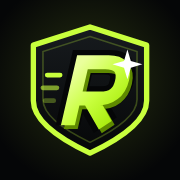
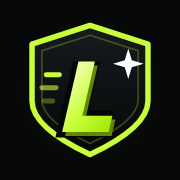
Learners Quest: 앱 이름을 Runner Quest에서 Learners Quest로 변경
화면 문구, PWA manifest, title, 공유 카드, 푸시 기본 제목, 패스키 rp 이름,
로고 R 마크를 L 마크로 바꾸고 PNG 아이콘을 다시 생성. SW VERSION rq-v18.
내부 식별자(rq- 접두어, quest_ 테이블, API 경로)는 그대로 둠.

Claude-Session: https://claude.ai/code/session_012ZS5j5fBSNmbDEpnkTcygR

Changed region(s): [[0.1389, 0.1111, 0.8611, 0.8889]]

diff --git a/quest/index.html b/quest/index.html
@@ -4,14 +4,14 @@
 <meta charset="utf-8">
 <meta http-equiv="Content-Security-Policy" content="object-src 'none'; base-uri 'self'; upgrade-insecure-requests">
 <meta name="viewport" content="width=device-width, initial-scale=1, maximum-scale=1, user-scalable=no, viewport-fit=cover">
-<title>Runner Quest | 데이터 러너즈</title>
+<title>Learners Quest | 데이터 러너즈</title>
 <meta name="robots" content="noindex, nofollow">
 <meta name="description" content="매일의 루틴을 퀘스트로 체크하고 경험치와 레벨로 나를 육성하는 자기육성 대시보드">
 <meta name="theme-color" content="#050607">
 <meta name="apple-mobile-web-app-capable" content="yes">
 <meta name="mobile-web-app-capable" content="yes">
 <meta name="apple-mobile-web-app-status-bar-style" content="black-translucent">
-<meta name="apple-mobile-web-app-title" content="Runner Quest">
+<meta name="apple-mobile-web-app-title" content="Learners Quest">
 <link rel="manifest" href="/quest/manifest.webmanifest">
 <link rel="icon" type="image/svg+xml" href="/quest/logo.svg">
 <link rel="icon" type="image/png" href="/quest/icon-192.png">
@@ -816,9 +816,9 @@ button.job-opt:not(:disabled):hover { border-color:color-mix(in srgb, var(--jc) 
 
 <header class="topbar">
   <div class="shell topbar-in">
-    <a class="brand" href="/quest/" aria-label="Runner Quest">
+    <a class="brand" href="/quest/" aria-label="Learners Quest">
       <img class="brand-mark" src="/quest/logo.svg" alt="" width="34" height="34">
-      <span>Runner Quest<small>데이터 러너즈 · 자기육성</small></span>
+      <span>Learners Quest<small>데이터 러너즈 · 자기육성</small></span>
     </a>
     <nav class="top-tabs" id="topTabs" role="tablist" hidden>
       <button role="tab" data-tab="today" aria-selected="true">오늘의 퀘스트</button>
@@ -843,7 +843,7 @@ button.job-opt:not(:disabled):hover { border-color:color-mix(in srgb, var(--jc) 
 <!-- 로그인 -->
 <section class="login-wrap" id="viewLogin" hidden>
   <form class="login-card" id="loginForm" novalidate>
-    <img class="login-logo" src="/quest/logo.svg" alt="Runner Quest 로고" width="88" height="88">
+    <img class="login-logo" src="/quest/logo.svg" alt="Learners Quest 로고" width="88" height="88">
     <span class="eyebrow">Player Login</span>
     <h1>오늘도 레벨업하러 오셨군요</h1>
     <p>데이터 러너즈 계정으로 로그인하세요. 퀘스트 기록은 계정 소유자만 볼 수 있도록 DB에 저장됩니다.</p>
@@ -866,7 +866,7 @@ button.job-opt:not(:disabled):hover { border-color:color-mix(in srgb, var(--jc) 
 <!-- 친구 초대 가입 -->
 <section class="login-wrap" id="viewSignup" hidden>
   <form class="login-card" id="signupForm" novalidate>
-    <img class="login-logo" src="/quest/logo.svg" alt="Runner Quest 로고" width="88" height="88">
+    <img class="login-logo" src="/quest/logo.svg" alt="Learners Quest 로고" width="88" height="88">
     <span class="eyebrow">New Player</span>
     <h1>같이 레벨업해요</h1>
     <div class="signup-hero" id="signupHero"><span class="e">🤝</span><span id="signupHeroText">친구에게 받은 초대 코드로 가입하면 바로 친구 리그에 들어갑니다.</span></div>
@@ -1308,7 +1308,7 @@ button.job-opt:not(:disabled):hover { border-color:color-mix(in srgb, var(--jc) 
 <!-- 앱 설치 안내 시트 -->
 <div class="sheet" id="installSheet" role="dialog" aria-modal="true" aria-labelledby="installSheetTitle" hidden>
   <div class="grab"></div>
-  <h3 id="installSheetTitle">Runner Quest 앱 설치</h3>
+  <h3 id="installSheetTitle">Learners Quest 앱 설치</h3>
   <div class="install-hero"><img src="/quest/icon-192.png" alt=""><p>홈 화면에 아이콘이 생기고, 주소창 없이 전체 화면 앱으로 열립니다. 로그인은 그대로 유지됩니다.</p></div>
   <ol class="install-steps" id="installSteps"></ol>
   <p class="install-note" id="installNote"></p>
@@ -2370,7 +2370,7 @@ button.job-opt:not(:disabled):hover { border-color:color-mix(in srgb, var(--jc) 
       c.fillStyle = g; c.fillRect(0, 0, W, H);
       c.strokeStyle = 'rgba(255,255,255,.08)'; c.lineWidth = 2; c.strokeRect(40, 40, W - 80, H - 80);
       function txt(t, x, y, font, color, align) { c.font = font; c.fillStyle = color; c.textAlign = align || 'left'; c.fillText(t, x, y); }
-      txt('RUNNER QUEST', 90, 128, '700 30px ' + EN, '#c8ff3d');
+      txt('LEARNERS QUEST', 90, 128, '700 30px ' + EN, '#c8ff3d');
       txt(seasonLabel(month) + (s.live ? ' 시즌 중간 결산' : ' 시즌 결산'), W - 90, 128, '600 30px ' + KO, '#a1aaa5', 'right');
       txt(displayName() + (me().cls ? '  ·  ' + me().cls : ''), W / 2, 230, '700 42px ' + KO, '#f5f7f2', 'center');
       txt(rk.r.en.toUpperCase(), W / 2, 410, '800 150px ' + EN, rk.r.color, 'center');
@@ -2411,12 +2411,12 @@ button.job-opt:not(:disabled):hover { border-color:color-mix(in srgb, var(--jc) 
     seasonImage(all, month).then(function (blob) {
       if (btn) btn.disabled = false;
       if (!blob) { toast('이미지를 만들지 못했어요.', true); return; }
-      var name = 'runner-quest-' + month + '.png', file = null;
+      var name = 'learners-quest-' + month + '.png', file = null;
       try { file = new File([blob], name, { type: 'image/png' }); } catch (e) {}
       var s = seasonSummary(all, month);
-      var text = seasonLabel(month) + ' 시즌 ' + (s.live ? '진행 중' : '결산') + ': ' + s.rank.r.ko + ' 랭크, ' + fmtNum(s.xp) + 'XP, 퍼펙트 데이 ' + s.perfect + '일 #RunnerQuest';
+      var text = seasonLabel(month) + ' 시즌 ' + (s.live ? '진행 중' : '결산') + ': ' + s.rank.r.ko + ' 랭크, ' + fmtNum(s.xp) + 'XP, 퍼펙트 데이 ' + s.perfect + '일 #LearnersQuest';
       if (file && navigator.canShare && navigator.canShare({ files: [file] })) {
-        navigator.share({ files: [file], title: 'Runner Quest 시즌 결산', text: text }).catch(function () {});
+        navigator.share({ files: [file], title: 'Learners Quest 시즌 결산', text: text }).catch(function () {});
       } else {
         var a = document.createElement('a'); a.href = URL.createObjectURL(blob); a.download = name;
         document.body.appendChild(a); a.click(); setTimeout(function () { URL.revokeObjectURL(a.href); a.parentNode.removeChild(a); }, 1000);
@@ -2780,7 +2780,7 @@ button.job-opt:not(:disabled):hover { border-color:color-mix(in srgb, var(--jc) 
       return [l.log_date, DOW[dow(l.log_date)], l.kind, l.routine_id, l.title, l.category, (CATS[l.category] || {}).en || '', l.xp, l.minutes, l.note, l.created_at];
     });
     var csv = '' + [cols].concat(rows).map(function (r) { return r.map(function (v) { v = String(v == null ? '' : v); return /[",\n]/.test(v) ? '"' + v.replace(/"/g, '""') + '"' : v; }).join(','); }).join('\n');
-    var a = document.createElement('a'); a.href = URL.createObjectURL(new Blob([csv], { type: 'text/csv;charset=utf-8' })); a.download = 'runner-quest-' + todayStr() + '.csv'; a.click();
+    var a = document.createElement('a'); a.href = URL.createObjectURL(new Blob([csv], { type: 'text/csv;charset=utf-8' })); a.download = 'learners-quest-' + todayStr() + '.csv'; a.click();
     setTimeout(function () { URL.revokeObjectURL(a.href); }, 1000);
   });
   // 자정 넘김·앱 복귀 시 날짜 갱신 + 최신 데이터 동기화
@@ -3734,8 +3734,8 @@ button.job-opt:not(:disabled):hover { border-color:color-mix(in srgb, var(--jc) 
   $('btnCopyCode').addEventListener('click', function () { var c = state.league && state.league.myCode; if (c) copyText(c, '친구 코드를 복사했어요.'); });
   $('btnShareInvite').addEventListener('click', function () {
     var c = state.league && state.league.myCode; if (!c) { loadLeague(); return; }
-    var url = inviteUrl(c), text = displayName() + '님이 Runner Quest 친구 리그에 초대했어요. 같이 루틴으로 레벨업해요!';
-    if (navigator.share) navigator.share({ title: 'Runner Quest 초대', text: text, url: url }).catch(function () {});
+    var url = inviteUrl(c), text = displayName() + '님이 Learners Quest 친구 리그에 초대했어요. 같이 루틴으로 레벨업해요!';
+    if (navigator.share) navigator.share({ title: 'Learners Quest 초대', text: text, url: url }).catch(function () {});
     else copyText(text + '\n' + url, '초대 링크를 복사했어요. 친구에게 붙여넣어 보내 주세요.');
   });
   function addFriend(code, quiet) {
@@ -3974,7 +3974,7 @@ button.job-opt:not(:disabled):hover { border-color:color-mix(in srgb, var(--jc) 
     showView('signup');
     var c = $('suCode').value.trim();
     if (c) social('invite_info', { code: c }, true).then(function (d) {
-      $('signupHeroText').innerHTML = d.ok ? '<b>' + esc(d.inviter) + '</b>님이 Runner Quest 친구 리그에 초대했어요. 가입하면 바로 친구가 됩니다.' : esc(d.error || '초대 코드를 확인해 주세요.');
+      $('signupHeroText').innerHTML = d.ok ? '<b>' + esc(d.inviter) + '</b>님이 Learners Quest 친구 리그에 초대했어요. 가입하면 바로 친구가 됩니다.' : esc(d.error || '초대 코드를 확인해 주세요.');
     });
   }
   $('goSignup').addEventListener('click', function () { openSignup(sessionStorage.getItem(INVITE_KEY) || ''); });
@@ -4031,7 +4031,7 @@ button.job-opt:not(:disabled):hover { border-color:color-mix(in srgb, var(--jc) 
     return pkTake('reg').then(function (o) {
       if (!o.ok) throw new Error(o.error || '등록을 시작할 수 없습니다.');
       return navigator.credentials.create({ publicKey: {
-        challenge: b64uToBuf(o.challenge), rp: { id: pkRpId(), name: 'Runner Quest' },
+        challenge: b64uToBuf(o.challenge), rp: { id: pkRpId(), name: 'Learners Quest' },
         user: { id: b64uToBuf(o.user.id), name: o.user.name, displayName: o.user.displayName },
         pubKeyCredParams: [{ type: 'public-key', alg: -7 }, { type: 'public-key', alg: -257 }],
         authenticatorSelection: { authenticatorAttachment: 'platform', residentKey: 'required', requireResidentKey: true, userVerification: 'required' },
@@ -4106,7 +4106,7 @@ button.job-opt:not(:disabled):hover { border-color:color-mix(in srgb, var(--jc) 
   if (isStandalone()) document.documentElement.classList.add('standalone');
   function refreshInstallBtn() { $('btnInstall').hidden = isStandalone() || !(installEvt || isIOS || isAndroid); }
   window.addEventListener('beforeinstallprompt', function (e) { e.preventDefault(); installEvt = e; refreshInstallBtn(); });
-  window.addEventListener('appinstalled', function () { installEvt = null; closeSheet(); refreshInstallBtn(); toast('앱이 설치됐어요! 홈 화면의 Runner Quest 아이콘으로 열어 보세요.'); });
+  window.addEventListener('appinstalled', function () { installEvt = null; closeSheet(); refreshInstallBtn(); toast('앱이 설치됐어요! 홈 화면의 Learners Quest 아이콘으로 열어 보세요.'); });
   var SHARE_ICON = '<svg viewBox="0 0 24 24" width="15" height="15" fill="none" stroke="currentColor" stroke-width="2" stroke-linecap="round" stroke-linejoin="round" style="vertical-align:-2px"><path d="M12 3v13"/><path d="M8 7l4-4 4 4"/><path d="M5 12v7a2 2 0 0 0 2 2h10a2 2 0 0 0 2-2v-7"/></svg>';
   function openInstall() {
     var steps, note = '';
@@ -4182,7 +4182,7 @@ button.job-opt:not(:disabled):hover { border-color:color-mix(in srgb, var(--jc) 
     var st = pushStatus();
     if (st === 'install') { openPushInstall(); return Promise.resolve(); }
     if (st === 'unsupported') { toast('이 브라우저는 알림을 지원하지 않아요. Chrome이나 삼성 인터넷으로 열어 주세요.', true); return Promise.resolve(); }
-    if (st === 'denied') { toast('알림이 차단돼 있어요. 휴대폰 설정 → 알림에서 Runner Quest(또는 브라우저)를 허용해 주세요.', true); return Promise.resolve(); }
+    if (st === 'denied') { toast('알림이 차단돼 있어요. 휴대폰 설정 → 알림에서 Learners Quest(또는 브라우저)를 허용해 주세요.', true); return Promise.resolve(); }
     pushBusy = true; pushRenderAll();
     // 권한 요청은 반드시 버튼 탭(사용자 동작) 직후에 호출해야 iOS에서 동작합니다.
     return Promise.resolve(Notification.requestPermission()).then(function (perm) {
@@ -4235,7 +4235,7 @@ button.job-opt:not(:disabled):hover { border-color:color-mix(in srgb, var(--jc) 
   }
   function openPushInstall() {
     openInstall();
-    $('installNote').textContent = '아이폰은 iOS 16.4 이상에서, 홈 화면에 추가한 Runner Quest 앱으로 열어야 알림을 받을 수 있어요. 설치 후 앱에서 「알림 켜기」를 눌러 주세요.';
+    $('installNote').textContent = '아이폰은 iOS 16.4 이상에서, 홈 화면에 추가한 Learners Quest 앱으로 열어야 알림을 받을 수 있어요. 설치 후 앱에서 「알림 켜기」를 눌러 주세요.';
     $('installNote').hidden = false;
   }
   function pushRenderProfile() {

diff --git a/quest/sw.js b/quest/sw.js
@@ -1,6 +1,6 @@
-/* Runner Quest 서비스 워커: 앱 껍데기만 캐시하고, 기록 API(n8n)는 항상 네트워크로 보냅니다.
+/* Learners Quest 서비스 워커: 앱 껍데기만 캐시하고, 기록 API(n8n)는 항상 네트워크로 보냅니다.
    푸시 알림(저녁 9시 남은 퀘스트 등)도 여기서 받아 표시합니다. */
-var VERSION = 'rq-v17';
+var VERSION = 'rq-v18';
 var SHELL = [
   '/quest/',
   '/quest/manifest.webmanifest',
@@ -69,7 +69,7 @@ self.addEventListener('push', function (e) {
     data: { url: d.url || '/quest/' }
   };
   if (d.tag) { opts.tag = d.tag; opts.renotify = true; }
-  e.waitUntil(self.registration.showNotification(d.title || 'Runner Quest', opts));
+  e.waitUntil(self.registration.showNotification(d.title || 'Learners Quest', opts));
 });
 
 // 알림 탭: 열린 앱이 있으면 그 창으로, 없으면 새로 엽니다.

diff --git a/index.html b/index.html
@@ -976,7 +976,7 @@
             <a href="/interview-log/"><b>면담 로그</b><small>면담 녹음으로 로그 작성 · 기록 조회</small></a>
             <span class="nav-more-label">대시보드</span>
             <a href="/kdt-monitoring/"><b>KDT 모니터링</b><small>모집 중인 KDT 과정 탐색 · 추천</small></a>
-            <a href="/quest/"><b>Runner Quest</b><small>루틴 체크 · 경험치로 나를 육성하는 대시보드</small></a>
+            <a href="/quest/"><b>Learners Quest</b><small>루틴 체크 · 경험치로 나를 육성하는 대시보드</small></a>
             <a href="/kti/"><b>한반도 긴장도 지수</b><small>공개 데이터로 매일 갱신하는 긴장도 모니터링</small></a>
           </div>
         </div>

diff --git a/quest/retro/index.html b/quest/retro/index.html
@@ -3,7 +3,7 @@
 <head>
 <meta charset="utf-8">
 <meta name="viewport" content="width=device-width, initial-scale=1">
-<title>월별 회고록 · Runner Quest</title>
+<title>월별 회고록 · Learners Quest</title>
 <meta name="robots" content="noindex">
 <meta http-equiv="refresh" content="0; url=/quest/#retro">
 <link rel="icon" type="image/svg+xml" href="/quest/logo.svg">

diff --git a/supabase/README.md b/supabase/README.md
@@ -1,6 +1,6 @@
-# Runner Quest Supabase 스키마
+# Learners Quest Supabase 스키마
 
-Runner Quest(`quest/`)의 데이터 저장소. 프론트는 지금처럼 n8n 웹훅만 호출하고, n8n이 전용 DB 역할 `n8n_quest`로 Supabase Postgres에 접속한다. 인증(`dl_sessions`, 패스키)과 푸시 구독(`quest_push_subs`)은 n8n data table에 남아 있다.
+Learners Quest(`quest/`)의 데이터 저장소. 프론트는 지금처럼 n8n 웹훅만 호출하고, n8n이 전용 DB 역할 `n8n_quest`로 Supabase Postgres에 접속한다. 인증(`dl_sessions`, 패스키)과 푸시 구독(`quest_push_subs`)은 n8n data table에 남아 있다.
 
 ## 마이그레이션
 
